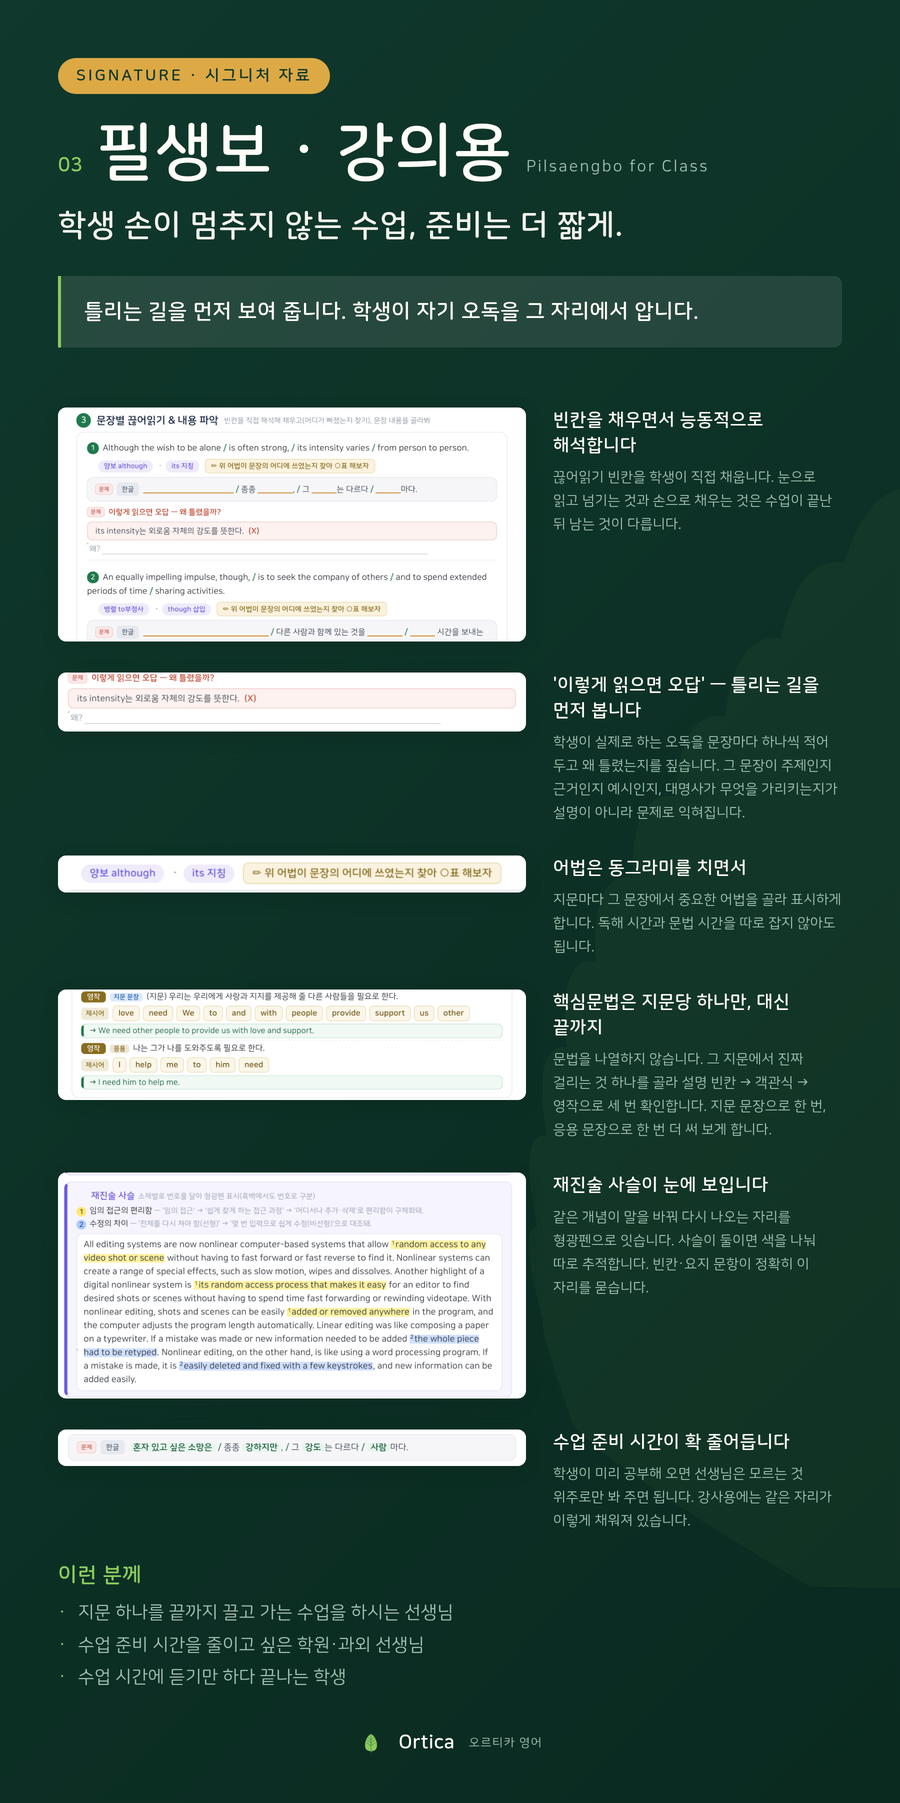
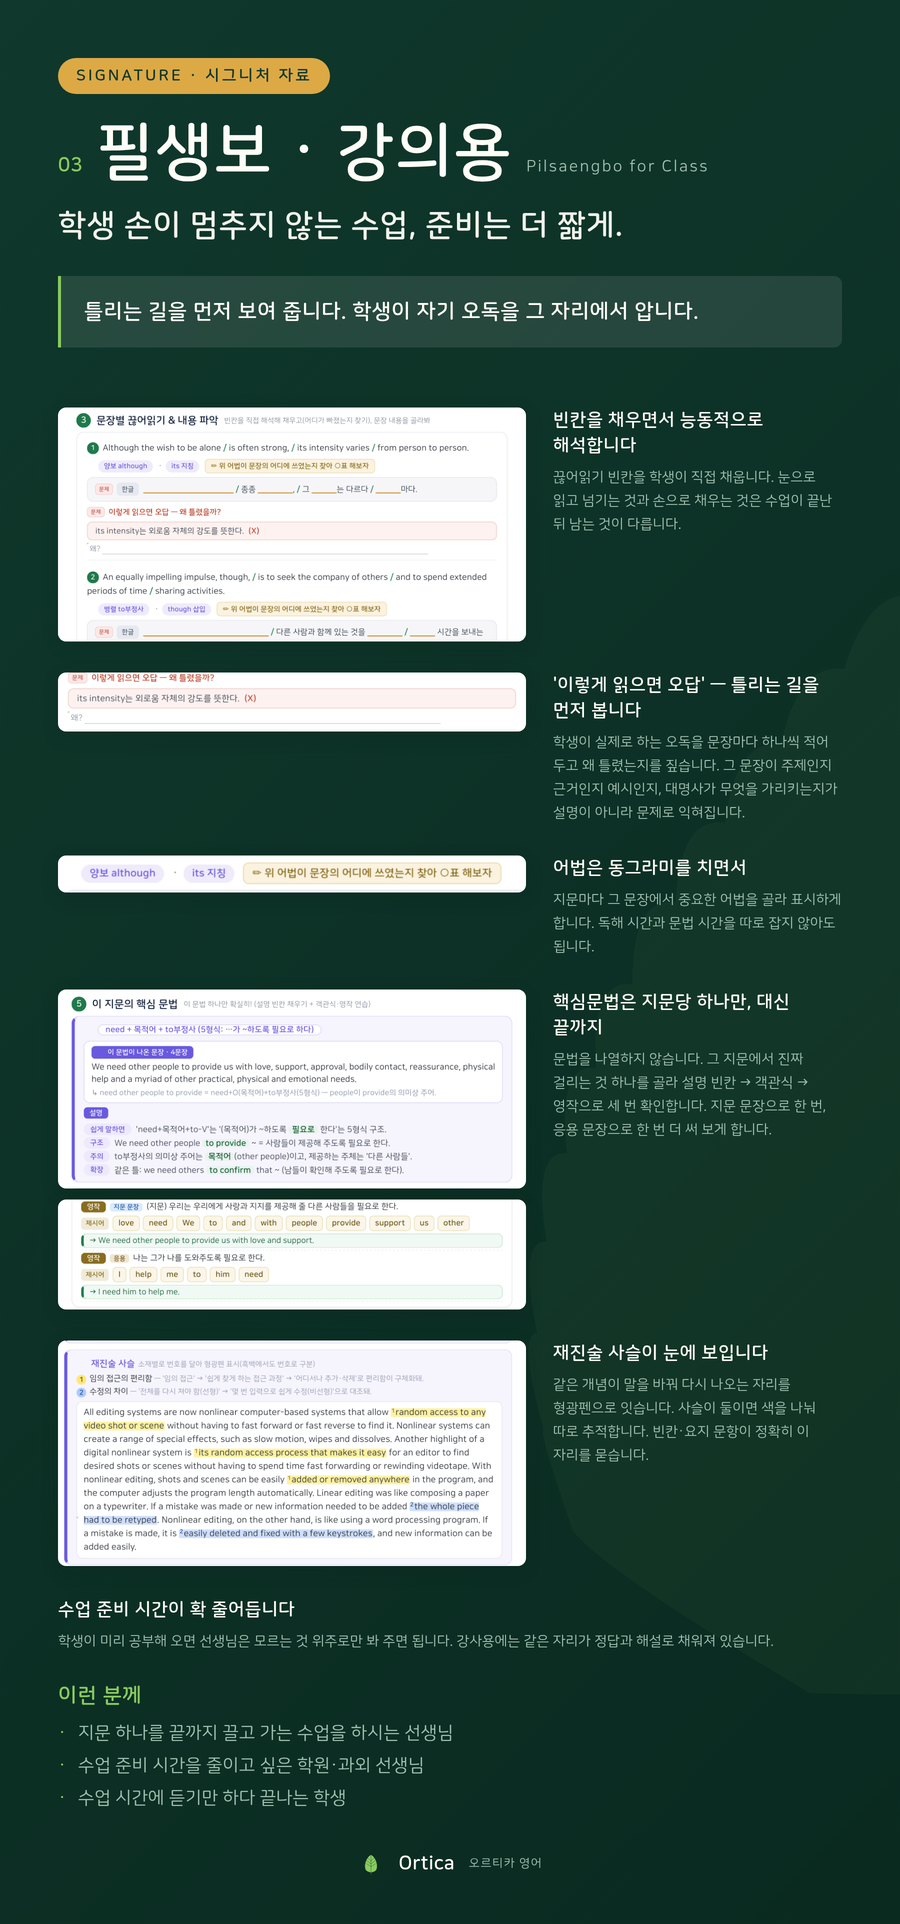
핵심문법에 설명 블록을 다시 넣고, 마지막 포인트 사진은 뺌
핵심문법은 설명(문법·문장·쉽게 말하면·구조·주의·확장) + 영작 두 장.
설명 없이 영작만 두니 무엇을 쓰게 하는 것인지가 안 보였다.

마지막 '수업 준비 시간이 확 줄어듭니다'는 사진을 뺀다. 강사용이 채워진
자리는 첫 포인트의 학생용 지면과 짝이라 굳이 또 보여 줄 필요가 없고,
글로 닫는 편이 끝이 깔끔하다.

Claude-Session: https://claude.ai/code/session_015BpsJgtaBR6xs1aCKnE4xw

diff --git a/brand/catalog.py b/brand/catalog.py
@@ -176,7 +176,7 @@ MATERIALS: list[Item] = [
              "문법을 나열하지 않습니다. 그 지문에서 진짜 걸리는 것 하나를 골라 "
              "설명 빈칸 → 객관식 → 영작으로 세 번 확인합니다. 지문 문장으로 한 번, "
              "응용 문장으로 한 번 더 써 보게 합니다.",
-             "c-psbc-gram-write.png"),
+             "h-psbc-gram.png|c-psbc-gram-write.png"),
             ("재진술 사슬이 눈에 보입니다",
              "같은 개념이 말을 바꿔 다시 나오는 자리를 형광펜으로 잇습니다. 사슬이 "
              "둘이면 색을 나눠 따로 추적합니다. 빈칸·요지 문항이 정확히 이 자리를 "
@@ -184,8 +184,7 @@ MATERIALS: list[Item] = [
              "h-psbc-restate4.png"),
             ("수업 준비 시간이 확 줄어듭니다",
              "학생이 미리 공부해 오면 선생님은 모르는 것 위주로만 봐 주면 됩니다. "
-             "강사용에는 같은 자리가 이렇게 채워져 있습니다.",
-             "c-psbc-filled.png"),
+             "강사용에는 같은 자리가 정답과 해설로 채워져 있습니다."),
         ],
         spec=[("형태", "PDF"), ("판본", "강사용(정답 표시) · 학생용(빈칸) 두 벌"),
               ("구성", "지문당 5단계 — 통독 · 어휘 · 문장별 끊어읽기 · 글 정리 · 핵심문법"),

diff --git a/brand/pdf_samples.py b/brand/pdf_samples.py
@@ -204,6 +204,7 @@ CROPS = [
     ("pilsaengbo-student.png", "c-psbc-blank.png", (0.07, 0.172, 0.93, 0.232)),
     ("pilsaengbo-student.png", "c-psbc-wrong.png", (0.07, 0.232, 0.93, 0.328)),
     ("pilsaengbo-student.png", "c-psbc-circle.png", (0.08, 0.138, 0.70, 0.182)),
+    ("pilsaengbo-grammar.png", "h-psbc-gram.png", (0.04, 0.042, 0.96, 0.318)),
     ("pilsaengbo-grammar.png", "c-psbc-gram-write.png", (0.04, 0.612, 0.96, 0.765)),
     ("pilsaengbo.png", "c-psbc-filled.png", (0.07, 0.168, 0.93, 0.228)),
 

diff --git a/brand/posts/03-pilsaengbo-class.md b/brand/posts/03-pilsaengbo-class.md
@@ -29,7 +29,7 @@
 
 **수업 준비 시간이 확 줄어듭니다**
 
-학생이 미리 공부해 오면 선생님은 모르는 것 위주로만 봐 주면 됩니다. 강사용에는 같은 자리가 이렇게 채워져 있습니다.
+학생이 미리 공부해 오면 선생님은 모르는 것 위주로만 봐 주면 됩니다. 강사용에는 같은 자리가 정답과 해설로 채워져 있습니다.
 
 ## 실제 자료 예시
 
